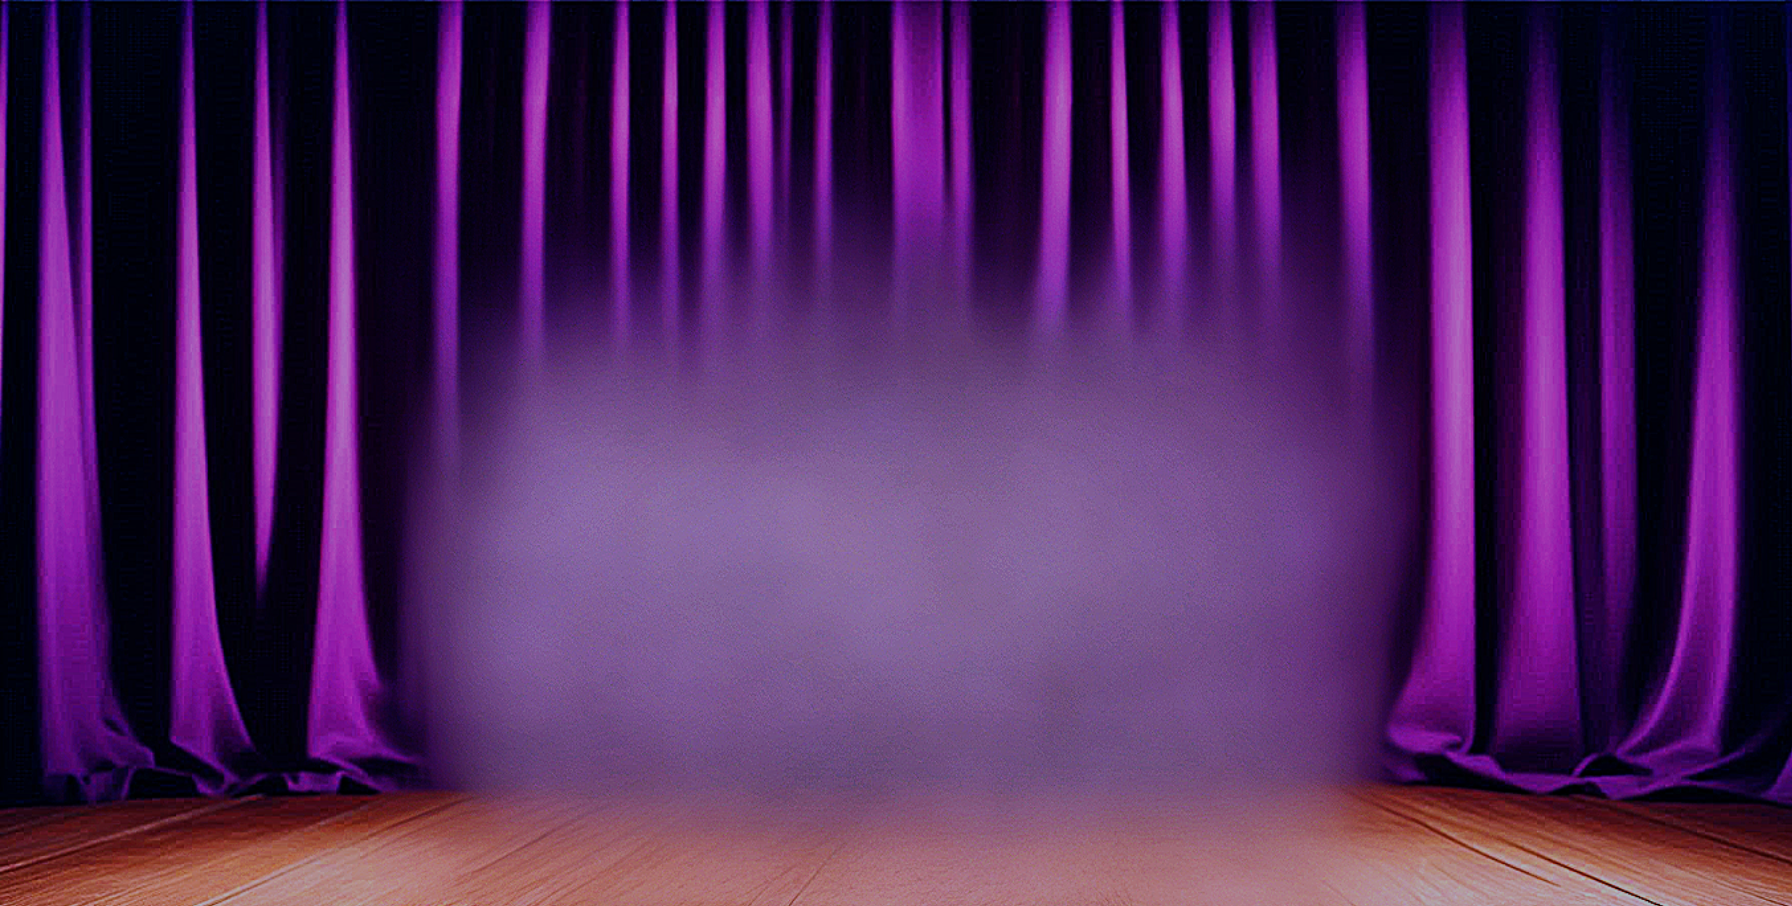
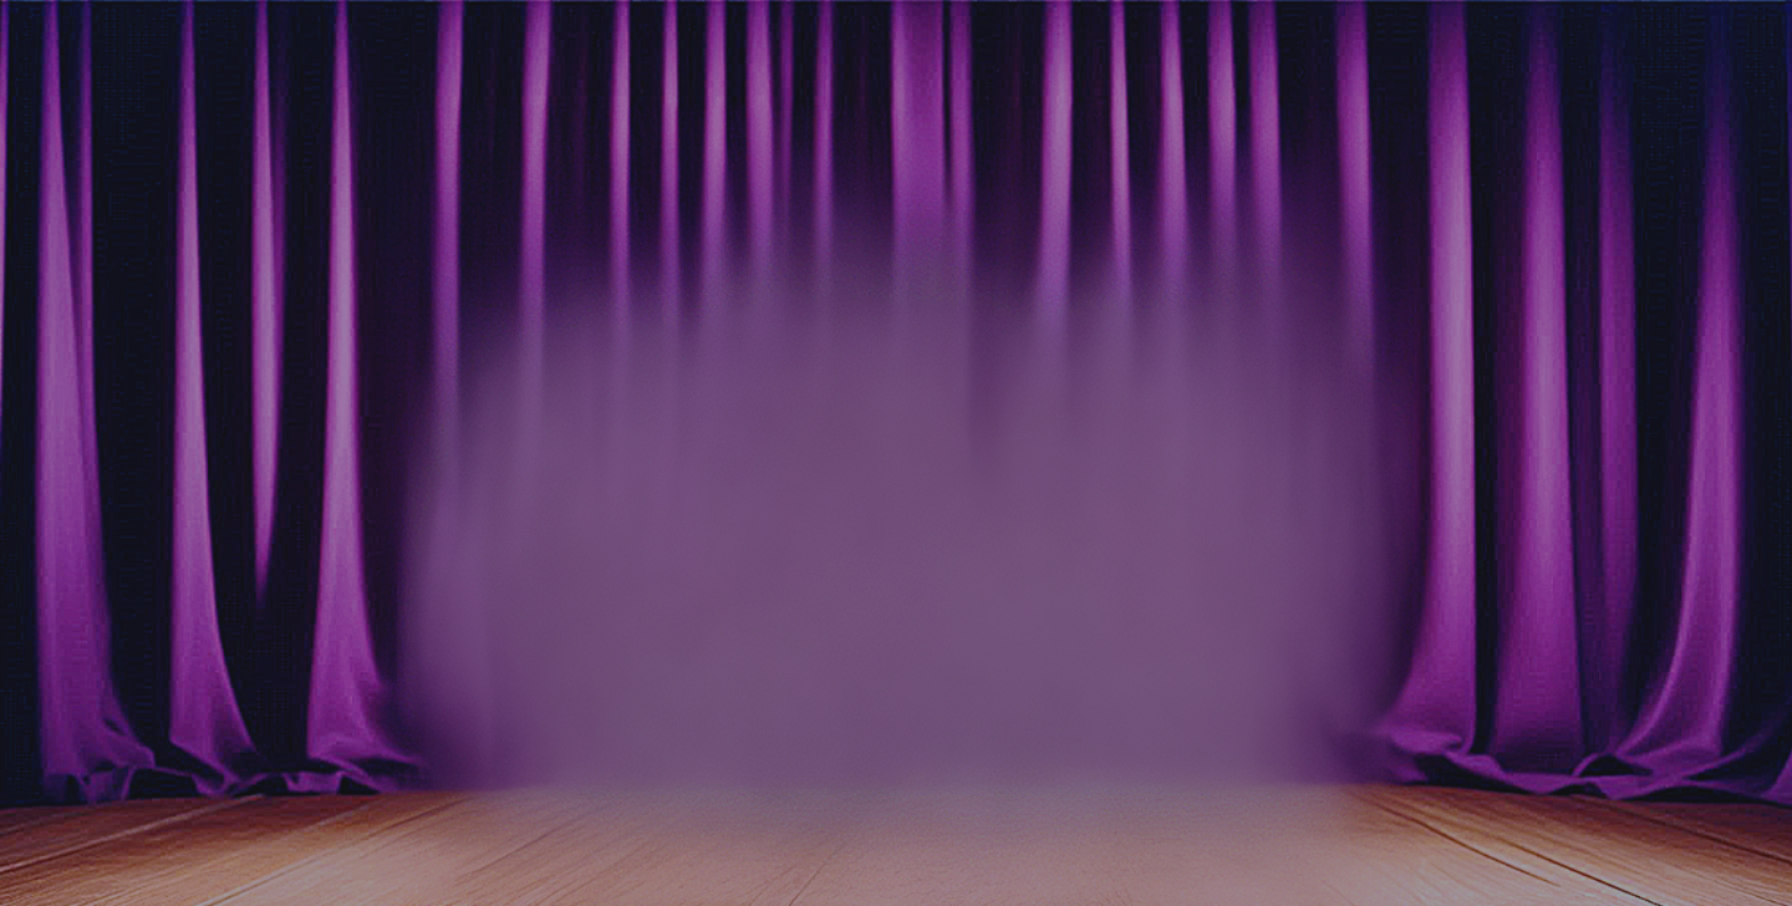
added: background image added

diff --git a/style.css b/style.css
@@ -51,15 +51,16 @@ html, body {
 #Welcome2theWorldOfChess-video {
     display: flex;
     justify-content: center;
-    align-items: flex-start;
+    align-items: center;
     width: 100%;
-    height: 518px;
-    background-image: url('Images\TheatreBg.png');
+    height: 418px;
+    background-image: url('Images/TheatreBg.png');
+    background-size: cover;
 }
 
 #Welcome2theWorldOfChess-video iframe {
-    width: 600px;
-    height: 400px;
+    width: 500px;
+    height: 350px;
 }
 
 /* .desktop-frame {
